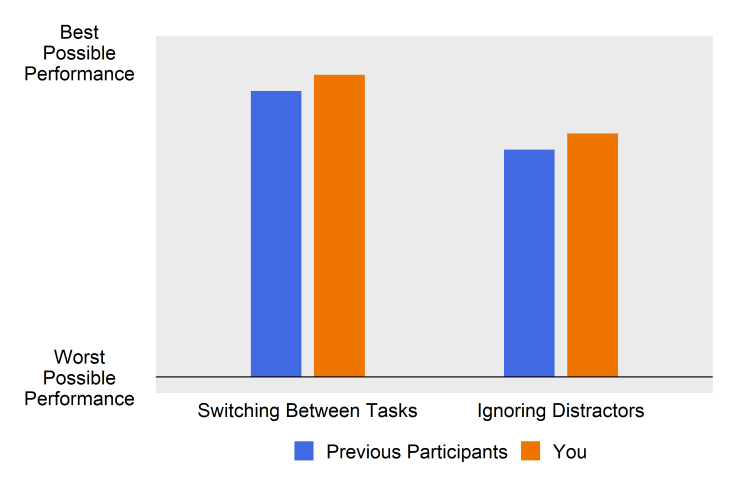
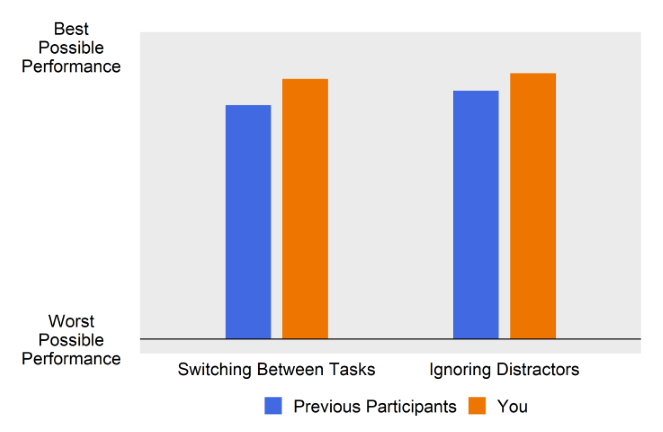
Update TSF
Replaced images (see R_scripts repo commit), made changes to the task instructions, and modified the task feedback screen layouts

diff --git a/instructions.js b/instructions.js
@@ -8,7 +8,7 @@ let instructions = {
   },
   // contains the max value of each instruction iteration. iteration will STOP at max.
   max: {
-    "prac1-1": 3, "prac1-2": 2, "prac1-3": 4, "prac2": 6, "prac3": 8, "main1": 5, "main2": 3, "main3": 8
+    "prac1-1": 3, "prac1-2": 3, "prac1-3": 4, "prac2": 6, "prac3": 8, "main1": 5, "main2": 3, "main3": 8
   },
   // what does instruction section end with?
   // #nextSectionButton, #startExpButton, buttonPressNextSection, buttonPressStartTask
@@ -160,18 +160,20 @@ function getNextInstructions(slideNum, expStage){
       switch (slideNum){
         case 1:
           $( getImageText(instructionImages[5]) ).insertBefore( "#instructions" + slideNum);
-          return "Additionally, there will be 2 numbers on either side of the center number. These numbers will either be the same or different than the target number.";
+          return "There will be 2 numbers on either side of the center number. These numbers will either be the same or different than the target number.";
         case 2:
           return "Do not respond to these numbers. You should only respond with respect to the target number.";
+        case 3:
+          changeTextFormat('#instructions' + slideNum,'font-weight','bold');
+          return "It is important that you respond as quickly and as accurately as possible.";
       }
     case "prac1-3":
       task = 1;
       switch (slideNum){
         case 1:
-          changeTextFormat('#instructions' + slideNum,'font-weight','bold');
-          return "It is important that you respond as quickly and as accurately as possible.";
-        case 2:
           return "Please enlarge this window to your entire screen and sit a comfortable distance from the computer screen. You must get at least " + practiceAccCutoff + "% correct in order to move on to the next practice block.";
+        case 2:
+          return "Remember, press '" + getLetter(getHand(1),1) + "' with your " + getHand(1) + " hand " + getFinger(getHand(1),1) + " finger if the number is " + getTaskInstruction(getHand(1),1) + " and '" + getLetter(getHand(1),2) + "' with your " + getHand(1) + " hand " + getFinger(getHand(1),2) + " finger if the number is " + getTaskInstruction(getHand(1),2) + "."
         case 3:
           iterateAgain = true;
           $( getImageText(instructionImages[getHandImageNum(1)]) ).insertAfter( "#instructions" + slideNum);
@@ -190,7 +192,7 @@ function getNextInstructions(slideNum, expStage){
         case 3:
           return "Press '" + getLetter(getHand(task),2) + "' with your " + getHand(task) + " hand " + getFinger(getHand(task),2) + " finger if the number is " + getTaskInstruction( getHand(task),2) + ".";
         case 4:
-          return "Remember to only respond to the center number, not the numbers on either side of it, and to respond as quickly and as accurately as possible. You must get at least " + practiceAccCutoff + "% correct in order to move on to the main task.";
+          return "Remember to only respond to the center number and to respond as quickly and as accurately as possible. You must get at least " + practiceAccCutoff + "% correct in order to move on to the next section.";
         case 5:
           iterateAgain = true;
           $( getImageText(instructionImages[getHandImageNum(2)]) ).insertAfter( "#instructions" + slideNum);
@@ -202,7 +204,7 @@ function getNextInstructions(slideNum, expStage){
     case "prac3":
       switch (slideNum){
         case 1:
-          return "In the final practice block, you will again see a number (1-9 excluding 5), but now you will either make a GREATER THAN/LESS THAN or a ODD/EVEN decision, depending on the color of the text.";
+          return "In the final practice block, you will indicate if the number is greater or less than 5 OR odd or even, depending on the color of the text.";
         case 2: // which ever was practiced first
           iterateAgain = true;
           changeTextFormat('#instructions' + slideNum,'font-weight','bold');
@@ -226,11 +228,11 @@ function getNextInstructions(slideNum, expStage){
           task = 2;
           return "If the numbers are " + colorSecondTask() + ", indicate if the number is " + getTaskInstruction(getHand(task),1) + " ('" + getLetter(getHand(task),1) + "' with " + getHand(task) + " hand " + getFinger(getHand(task),1) + " finger) or " + getTaskInstruction(getHand(task),2) + " ('" + getLetter(getHand(task),2) + "' with " + getHand(task) + " hand " + getFinger(getHand(task),2) + " finger).";
         case 6:
-          return "Remember to only respond to the center number, not the numbers on either side of it, and to respond as quickly and as accurately as possible. You must get at least " + practiceAccCutoff + "% correct in order to move onto the next task.";
+          return "Remember to only respond to the center number and to respond as quickly and as accurately as possible. You must get at least " + practiceAccCutoff + "% correct in order to move on to the main task.";
         case 7:
           iterateAgain = true;
           $( getImageText(instructionImages[2]) ).insertAfter( "#instructions" + slideNum);
-          return "This block contains 24 trials. Please place your right hand on the 'N' and 'M' keys and left hand on the 'Z' and 'X' keys.";
+          return "This block contains 24 trials. Please place your hands on the 'Z' and 'X' keys and 'N' and 'M' keys as shown.";
         case 8:
           changeTextFormat('#instructions' + slideNum,'font-weight','bold');
           return "Press any button begin."

diff --git a/tasks.js b/tasks.js
@@ -5,8 +5,6 @@ let capsLockPrompted = false;
 
 // main task preparation function
 function runTasks(){
-  sectionType = "task";
-
   //clear any instructions and show canvas
   hideInstructions();
   canvas.style.display = "block";
@@ -70,9 +68,6 @@ function runTasks(){
 
     // create task arrays
     createTaskArrays(numBlocks * trialsPerBlock);
-    console.log(cuedTaskSet);
-    switchRepeatList = getSwitchRepeatList(cuedTaskSet); //list of switches and repeats
-    console.log(switchRepeatList);
 
     // start countdown into main task
     countDown(3);
@@ -84,12 +79,14 @@ function createTaskArrays(numTrials, taskSpecification = ""){
   taskStimuliSet = getStimSet(taskStimuliPairs);
   cuedTaskSet = getTaskSet(taskStimuliPairs);
   actionSet = createActionArray();
+  switchRepeatList = getSwitchRepeatList(cuedTaskSet); //list of switches and repeats
 }
 
 function addToTaskArrays(numTrials, taskSpecification = ""){
   taskStimuliPairs = taskStimuliPairs.concat( createStimuliAndTaskSets(numTrials, taskSpecification));
   taskStimuliSet = getStimSet(taskStimuliPairs);
   cuedTaskSet = getTaskSet(taskStimuliPairs);
+  switchRepeatList = getSwitchRepeatList(cuedTaskSet);
   actionSet = createActionArray();
 }
 
@@ -107,6 +104,7 @@ function countDown(seconds){
 }
 
 function runPracticeTrial(){
+  sectionType = "pracTask";
   if (trialCount < taskStimuliSet.length){
     if (expType == 3){ //check fi key is being held down
       expType = 4;
@@ -126,6 +124,7 @@ function runPracticeTrial(){
 }
 
 function runTrial(){
+  sectionType = "mainTask";
   if (trialCount < numBlocks * trialsPerBlock) { //if exp isn't over yet
 
     if (trialCount % trialsPerBlock == 0 && !breakOn && trialCount != 0) {

diff --git a/blockFeedback.js b/blockFeedback.js
@@ -36,16 +36,22 @@ function showFeedback(iterator){
   // prep canvas
   ctx.clearRect(0, 0, canvas.width, canvas.height);
   ctx.fillStyle = "black";
-  ctx.font = "22px Arial";
+  ctx.font = "20px Arial";
 
-  // draw on canvas and add text
-  ctx.drawImage(img,canvas.width/2 - img.width/2,100);
-  ctx.fillText("Block " + block + "/" + numBlocks +" Finished.",canvas.width/2,30);
-  ctx.fillText("Your overall accuracy so far is " + Math.round((accCount/trialCount)*100) + "%.",canvas.width/2,55);
-  ctx.fillText("Remember, you need > " + taskAccCutoff+ "% accuracy to be paid.",canvas.width/2,80);
+  // draw feedback image
+  ctx.drawImage(img,canvas.width/2 - img.width/2,90);
 
-  ctx.font = "bold 22px Arial";
-  ctx.fillText("Task Performance:",canvas.width/2,120);
+  // add text
+  ctx.fillText("You finished block " + block + "/" + numBlocks + "!",canvas.width/2,30);
+
+  ctx.font = "bold 18px Arial";
+  ctx.fillText("Below is your performance on the previous block. Your score",canvas.width/2,60);
+  ctx.fillText("is based on both your accuracy and your response speed.",canvas.width/2,80);
+
+  ctx.font = "20px Arial";
+  ctx.fillText("Your accuracy is " + Math.round((accCount/trialCount)*100) + "%. Remember, you need >"+ taskAccCutoff+ "% accuracy to be paid.",canvas.width/2, canvas.height/2 + 245);
+
+  ctx.font = "bold 20px Arial";
   ctx.fillText("Press any button to continue.",canvas.width/2,canvas.height/2 + 290);
 }
 

diff --git a/main.js b/main.js
@@ -2,14 +2,14 @@
 "use strict";
 
 // for testing
-let speed = "fast"; //fast
+let speed = "normal"; //fast
 
 // ----- Experiment Paramenters (CHANGE ME) ----- //
-let stimInterval = (speed == "fast") ? 20 : 2000 //2000
+let stimInterval = (speed == "fast") ? 20 : 2000; //2000
 let fixInterval = (speed == "fast") ? 20 : 500; //500 ms
 let numBlocks = 8, trialsPerBlock = 48; // (multiples of 24) (48 usually)
 let miniBlockLength = 0; //when little breaks appear (doesn't need to be multiple of 24). 0 to turn off
-let practiceAccCutoff = 0; // 75 acc%
+let practiceAccCutoff = 75; // 75 acc%
 let taskAccCutoff = 75; // 75 acc%
 let skipPractice = false; // <- turn practice blocks on or off
 function ITIInterval(){
@@ -105,7 +105,7 @@ $(document).ready(function(){
       } else if (expType == 7) {
         // 7: feedback - press button to start next block
         sectionEnd = new Date().getTime() - runStart;
-        data.push(["Feedback", sectionType, block, blockType, 99, 99, 99, 99, 99, 99, 99, 99, 99, 99, 99, 99, 99, sectionStart, sectionEnd, sectionEnd - sectionStart]);
+        data.push(["feedback", sectionType, block, blockType, 99, 99, 99, 99, 99, 99, 99, 99, 99, 99, 99, 99, 99, sectionStart, sectionEnd, sectionEnd - sectionStart]);
         console.log(data);
         expType = 0;
         countDown(3);
